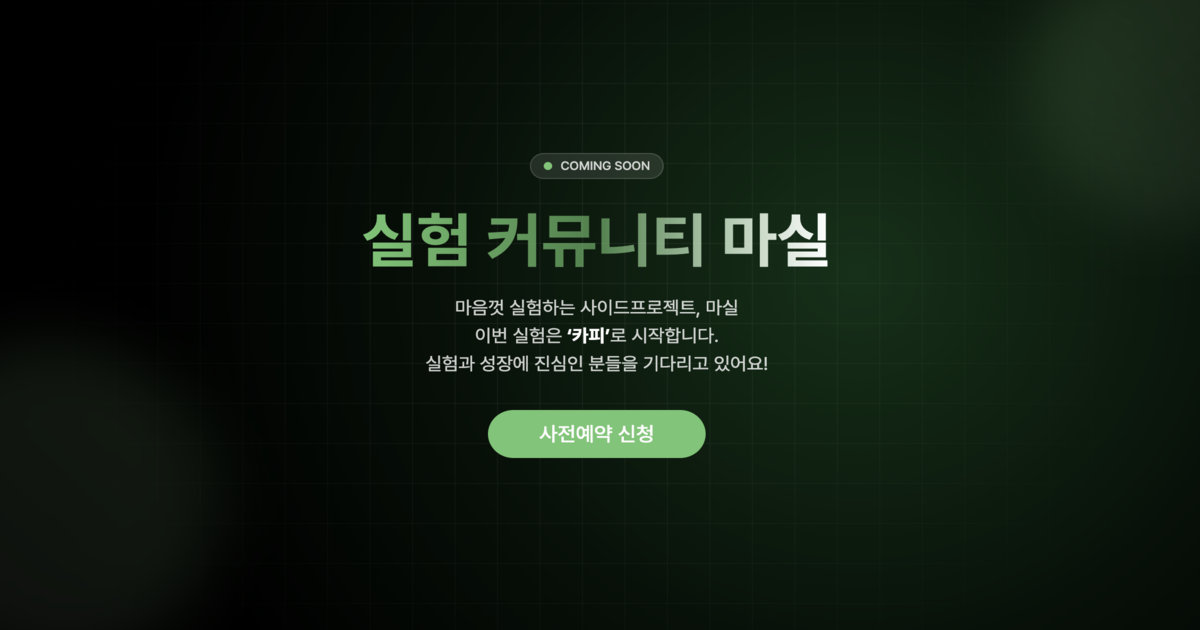
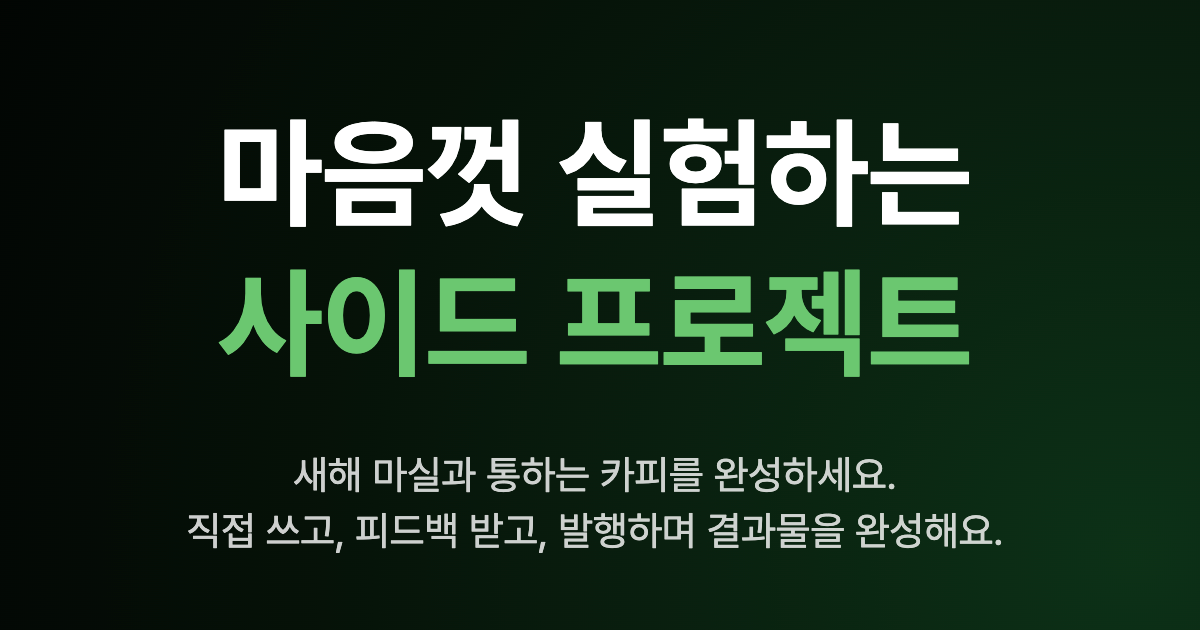
feat: 링크, og-image 교체

diff --git a/apps/side-project/src/components/HeroSection.tsx b/apps/side-project/src/components/HeroSection.tsx
@@ -55,7 +55,7 @@ export default function HeroSection() {
             transition={{ duration: 0.5, delay: 0.5 }}
           >
             <Link
-              href="https://kacykim.notion.site/2d066610840280e4bf4cfe982fdd4494"
+              href="https://www.notion.so/kacykim/2d066610840280e4bf4cfe982fdd4494?source=copy_link"
               target="_blank"
               className="group block h-full rounded-md outline-none"
             >
@@ -67,7 +67,7 @@ export default function HeroSection() {
               </div>
             </Link>
             <Link
-              href="https://kacykim.notion.site/2d066610840280c8a568c43df50298d7"
+              href="https://www.notion.so/kacykim/2d066610840280c8a568c43df50298d7?source=copy_link"
               target="_blank"
               className="group block h-full rounded-md outline-none"
             >
@@ -79,7 +79,7 @@ export default function HeroSection() {
               </div>
             </Link>
             <Link
-              href="https://kacykim.notion.site/2db666108402808d9dfee123ed893662"
+              href="https://www.notion.so/kacykim/2db666108402808d9dfee123ed893662?source=copy_link"
               target="_blank"
               className="group block h-full rounded-md outline-none"
             >
